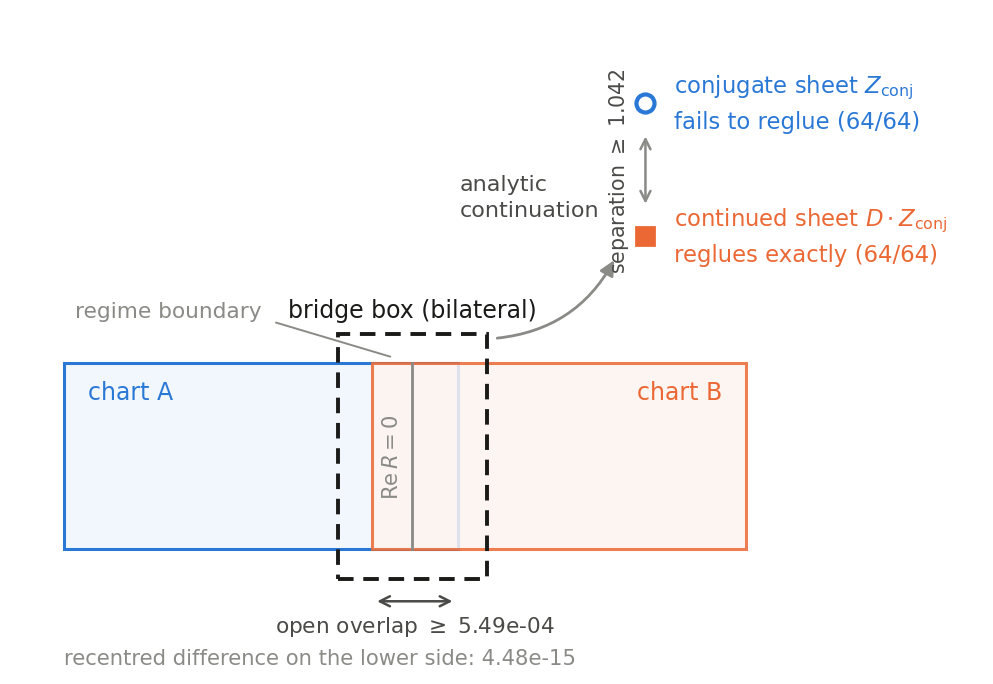
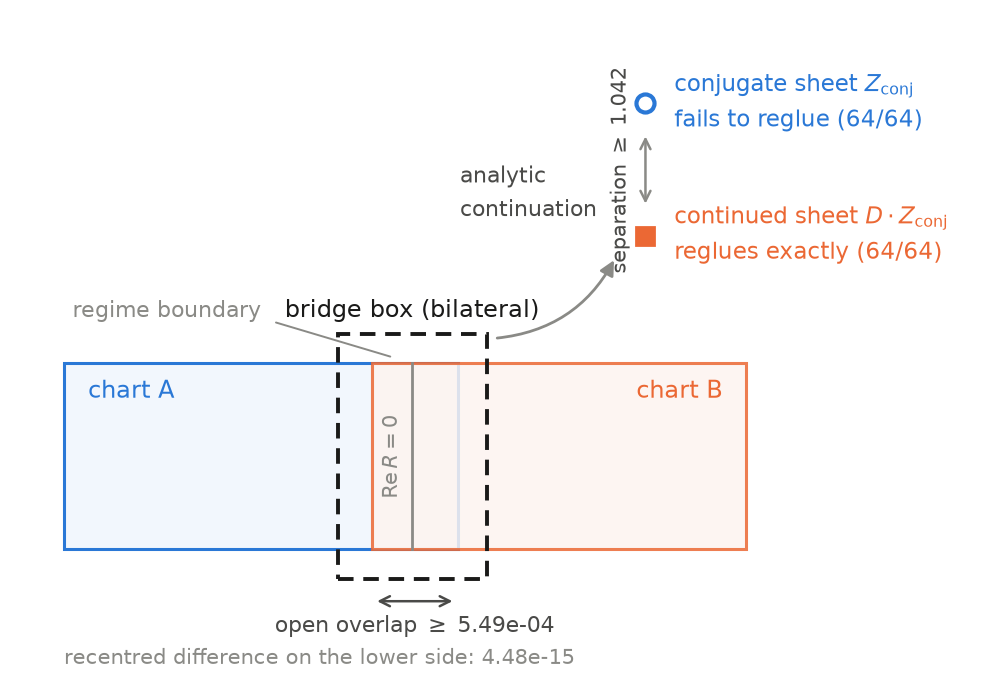
Pin matplotlib and regenerate the figures
The dependency is now present in the reference environment, so its version is
derived like the others rather than declared missing, and the five figures
are rebuilt from the certificates they plot.

Every import of this repository now resolves to the standard library, to a
pinned dependency, or to the repository itself.

diff --git a/docs/ENVIRONMENT.md b/docs/ENVIRONMENT.md
@@ -11,7 +11,7 @@ Full reproduction is a claim about a computation, and a computation is not separ
 | mpmath | 1.3.0 |
 | sympy | 1.14.0 |
 | scipy | 1.18.0 |
-| matplotlib | **absent from this environment**, required by `verification/producers/figures.py` |
+| matplotlib | 3.11.1 |
 | BLAS | scipy-openblas 0.3.33.112.0 |
 | LAPACK | scipy-openblas |
 
